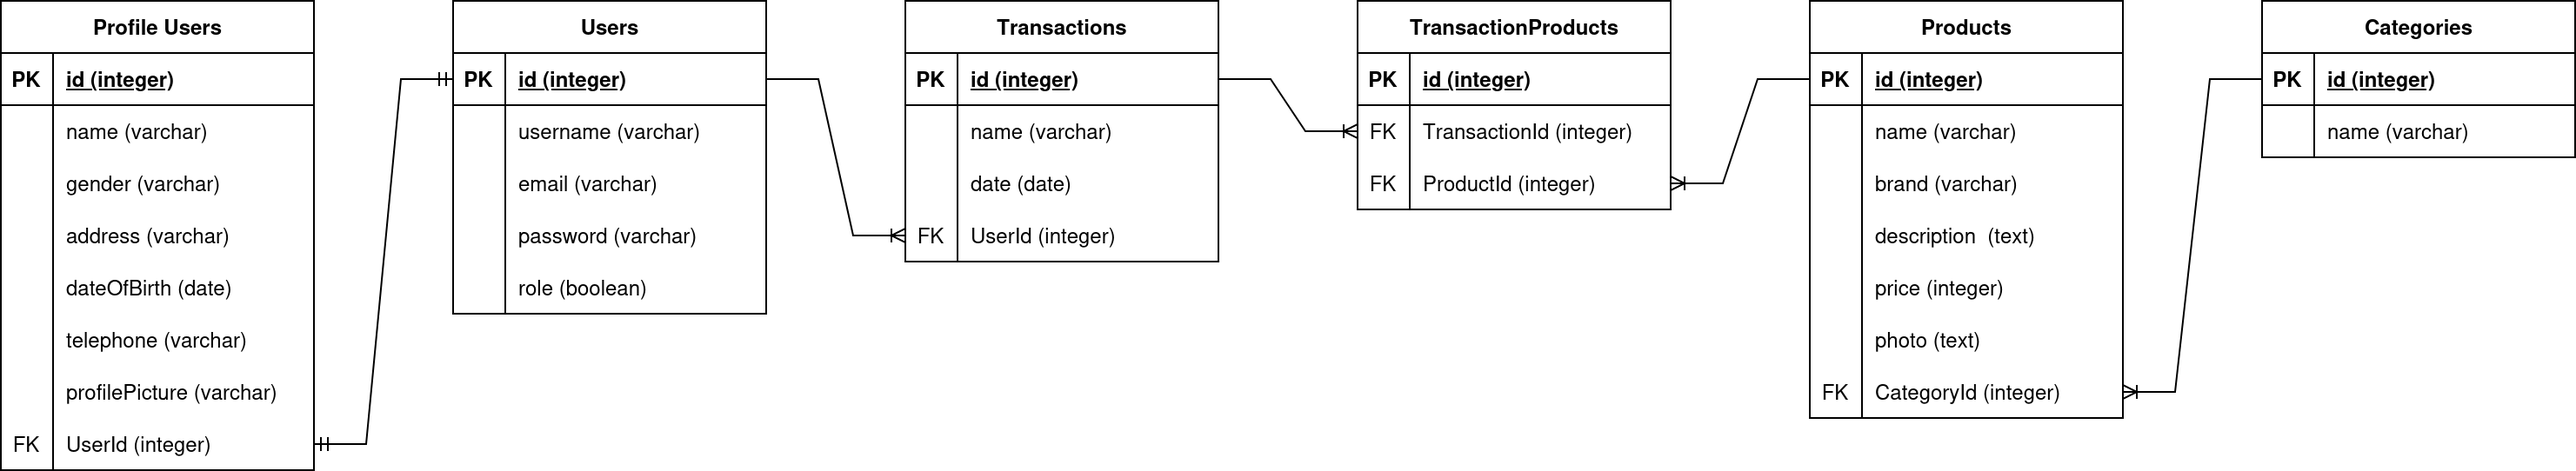
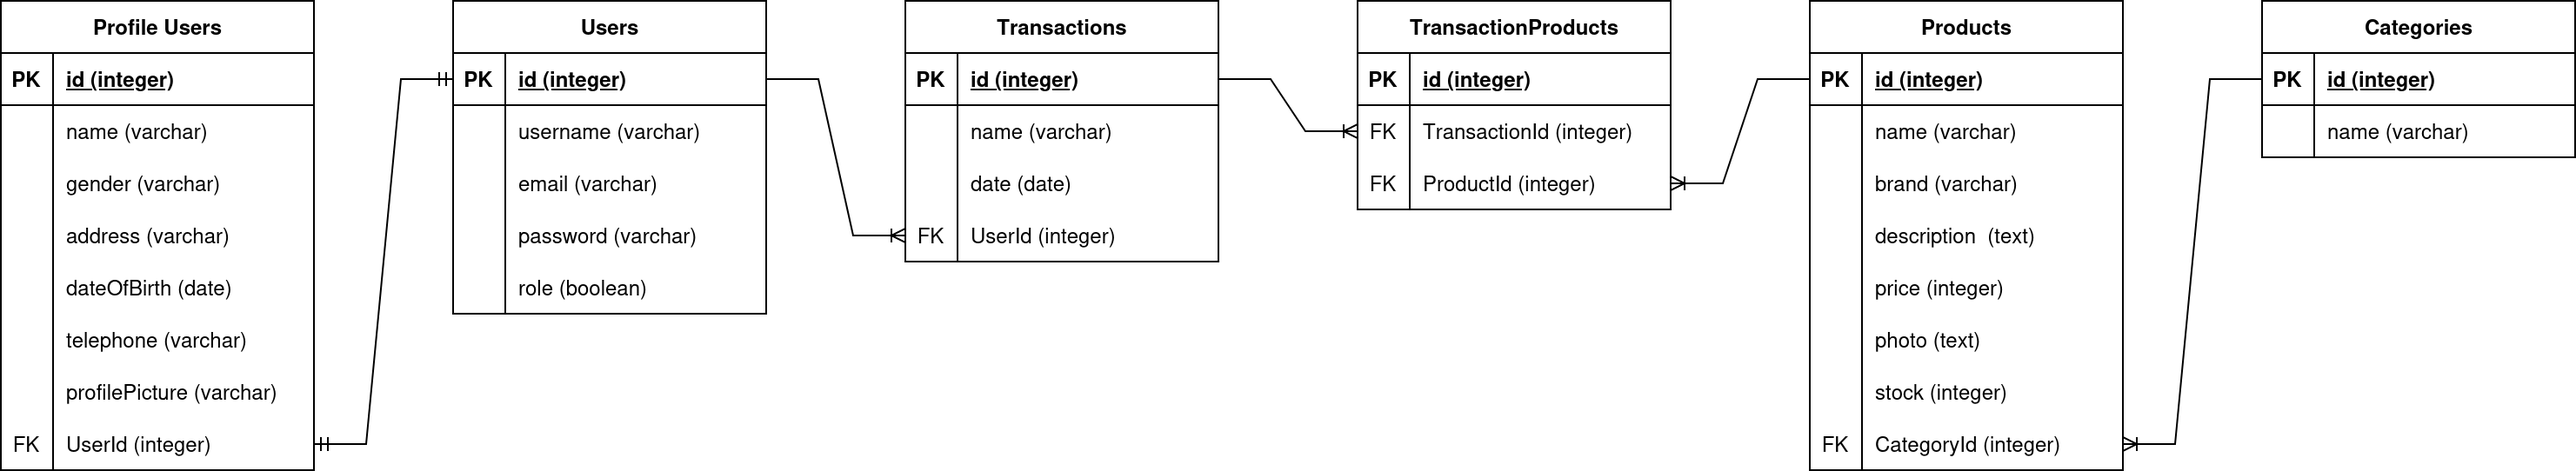
J-MVC, helper, routes

Changed region(s): [[0.7144, 0.8856, 0.8386, 1.0], [0.7144, 0.797, 0.8386, 0.8561]]

diff --git a/routes/index.js b/routes/index.js
@@ -1,0 +1,45 @@
+const Controller = require('../controllers/controller')
+const router = require('express').Router()
+
+module.exports = router
+
+
+router.get('/', Controller.home) //regis, login, logut
+
+router.get('/register', Controller)
+router.post('/register', Controller)
+
+router.get('/login', Controller)
+router.post('/login', Controller)
+
+router.get('/logout', Controller)
+
+router.get('/admin/profile', Controller)
+router.get('/admin/profile/edit', Controller)
+router.post('/admin/profile/edit', Controller)
+
+router.get('/customer/profile', Controller)
+router.get('/customer/profile/edit', Controller)
+router.post('/customer/profile/edit', Controller)
+
+// Admin Page
+router.get('/products', Controller)
+router.get('/products/add', Controller)
+router.post('/products/add', Controller)
+router.post('/products/emptyList', Controller)
+router.get('/products/stock/:id', Controller) //increment
+router.post('/products/stock/:id', Controller)
+router.get('/products/delete/:id', Controller)
+router.get('/products/:id', Controller)
+router.get('/products/:id/edit', Controller) //ganti semua kecuali stock
+router.post('/products/:id/edit', Controller)
+router.post('/customer-transaction', Controller)
+
+// Customer Page
+router.get('/list-products', Controller)
+router.get('/list-products/buy', Controller)//update barang ke keranjang
+router.get('/cart', Controller)
+router.get('/cart/checkout', Controller) //masuk ke table transaction
+router.post('/cart/checkout', Controller)
+router.get('/cart/transaction', Controller) //list transaction -> package
+router.get('/cart/transaction/:id/delete', Controller) // batalin transaksi 

diff --git a/migrations/20230803054702-add-stock-to-products.js b/migrations/20230803054702-add-stock-to-products.js
@@ -1,0 +1,24 @@
+'use strict';
+
+/** @type {import('sequelize-cli').Migration} */
+module.exports = {
+ up (queryInterface, Sequelize) {
+    /**
+     * Add altering commands here.
+     *
+     * Example:
+     * await queryInterface.createTable('users', { id: Sequelize.INTEGER });
+     */
+    return queryInterface.addColumn('Products', 'stock', Sequelize.INTEGER)
+  },
+
+ down (queryInterface, Sequelize) {
+    /**
+     * Add reverting commands here.
+     *
+     * Example:
+     * await queryInterface.dropTable('users');
+     */
+    return queryInterface.removeColumn('Products', 'stock')
+  }
+};

diff --git a/app.js b/app.js
@@ -1,0 +1,15 @@
+const express = require('express')
+const router = require('./routes')
+const app = express()
+const port = 3000
+
+// app.get('/', (req, res) => {
+//   res.send('Hello World!')
+// })
+app.set('view emgine', 'ejs')
+app.use(express.urlencoded ({extended:false}))
+app.use(router)
+
+app.listen(port, () => {
+  console.log(`Example app listening on port ${port}`)
+})

diff --git a/models/product.js b/models/product.js
@@ -21,6 +21,7 @@ module.exports = (sequelize, DataTypes) => {
       price: DataTypes.INTEGER,
       photo: DataTypes.STRING,
       CategoryId: DataTypes.INTEGER,
+      stock : DataTypes.INTEGER
     },
     {
       sequelize,

diff --git a/controllers/controller.js b/controllers/controller.js
@@ -1,0 +1,7 @@
+class Controller {
+  static home (req, res) {
+    res.render ("home.ejs")
+  }
+}
+
+module.exports = Controller
